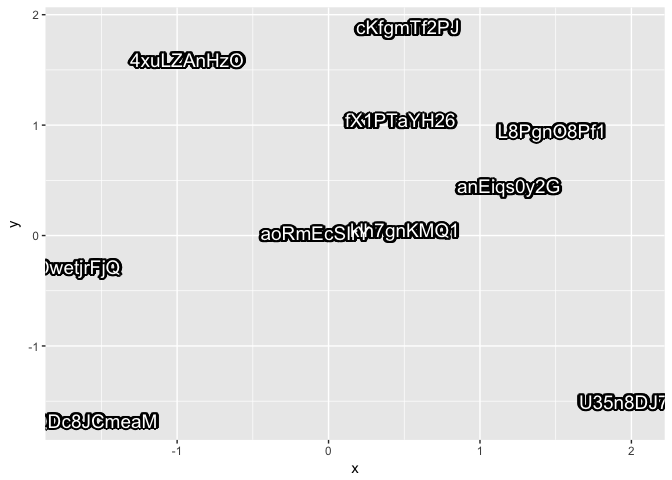
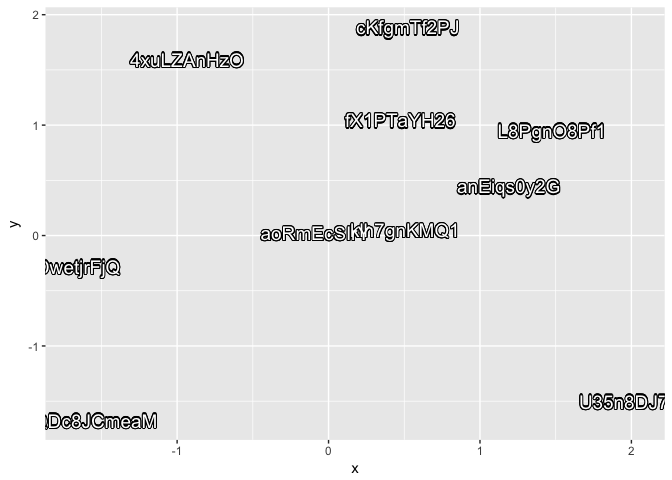
update code

diff --git a/README.md b/README.md
@@ -21,7 +21,7 @@ ggplot(d, aes(x,y)) + geom_shadowtext(aes(label=label), size=5)
 ![](Figs/unnamed-chunk-2-1.png)
 
 ``` r
-ggplot(d, aes(x,y)) + geom_shadowtext(aes(label=label, color=label), bgcolor='firebrick', size=5)
+ggplot(d, aes(x,y)) + geom_shadowtext(aes(label=label, color=label), bg.color='firebrick', size=5)
 ```
 
 ![](Figs/unnamed-chunk-2-2.png)
